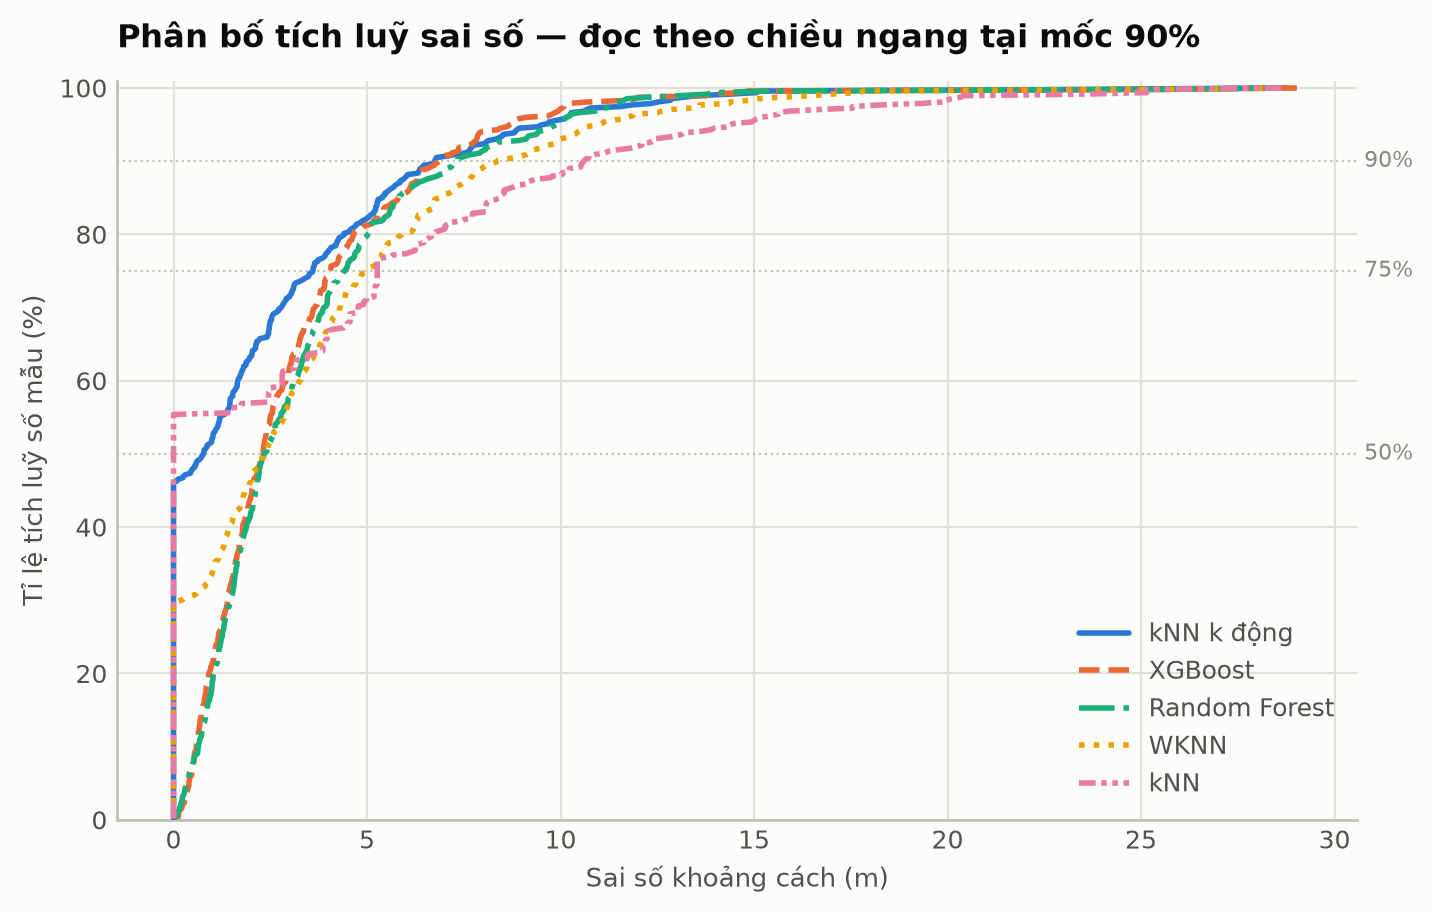
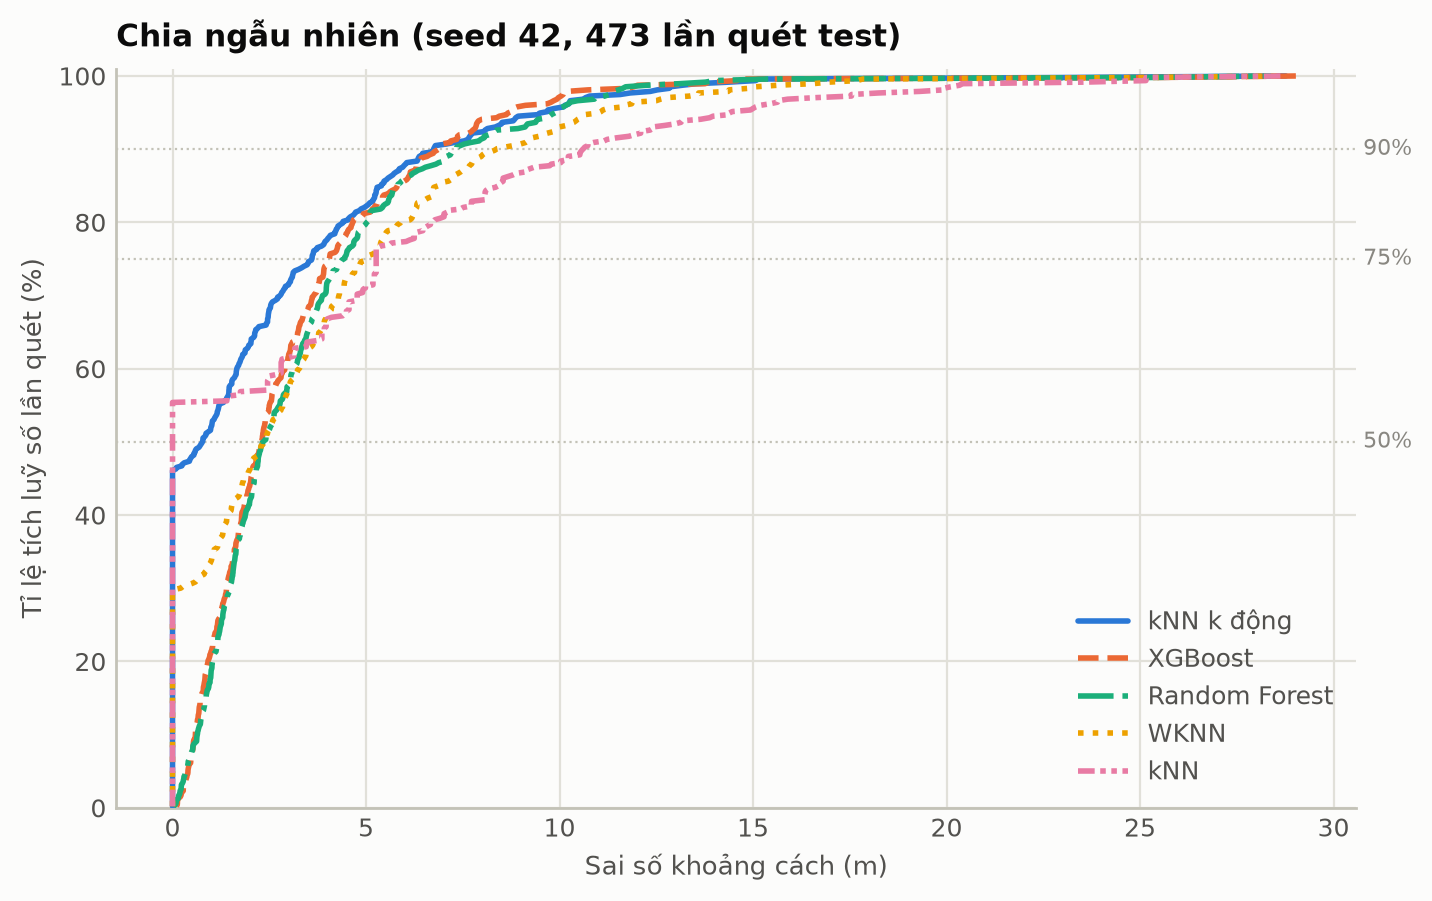
feat(ml): thêm RMSE, tỉ lệ sai không quá 2/3/5 m cho ba giao thức và hình CDF bỏ trọn một điểm, khác đợt

diff --git a/ml/report.py b/ml/report.py
@@ -122,27 +122,28 @@ def so_sanh_mo_hinh(loi: dict, thu_tu: list[str]) -> str:
     return _luu(fig, "model_comparison.png")
 
 
-def cdf(loi: dict, thu_tu: list[str]) -> str:
-    """Đường CDF. Kiểu nét khác nhau để đọc được cả khi in đen trắng."""
-    fig, ax = plt.subplots(figsize=(8, 4.8))
-    _khung(ax)
-
-    for i, ten in enumerate(thu_tu):
-        x, y = evaluate.duong_cdf(loi[ten])
-        ax.plot(x, y, color=SERIES[i], linestyle=NET[i], linewidth=2,
-                label=ten, zorder=3, solid_capstyle="round")
-
-    for p in (50, 75, 90):
-        ax.axhline(p, color=TRUC, linewidth=0.8, linestyle=":", zorder=1)
-        ax.text(ax.get_xlim()[1], p, f" {p}%", va="center", fontsize=8, color=MUC_MO)
-
-    ax.set_xlabel("Sai số khoảng cách (m)", color=MUC_PHU, fontsize=9.5)
-    ax.set_ylabel("Tỉ lệ tích luỹ số mẫu (%)", color=MUC_PHU, fontsize=9.5)
-    ax.set_ylim(0, 101)
-    ax.set_title("Phân bố tích luỹ sai số — đọc theo chiều ngang tại mốc 90%",
-                 color=MUC_CHINH, fontsize=11.5, fontweight="bold", loc="left", pad=12)
-    ax.legend(frameon=False, fontsize=9, loc="lower right", labelcolor=MUC_PHU)
-    return _luu(fig, "cdf_error.png")
+def cdf(cac_khung: dict[str, dict], ten_file: str) -> str:
+    """Đường CDF theo mét, mỗi khung một tập kiểm. Kiểu nét khác nhau để đọc được khi in
+    đen trắng; thứ tự và màu lấy theo khung đầu nên cùng mô hình cùng màu ở mọi khung."""
+    dau = next(iter(cac_khung.values()))
+    thu_tu = sorted(dau, key=lambda t: dau[t].mean())
+    fig, cac_ax = plt.subplots(1, len(cac_khung), figsize=(8 * len(cac_khung) ** 0.6, 4.8),
+                               squeeze=False, sharey=True)
+    for ax, (tieu_de, loi) in zip(cac_ax[0], cac_khung.items()):
+        _khung(ax)
+        for i, ten in enumerate(thu_tu):
+            x, y = evaluate.duong_cdf(loi[ten])
+            ax.plot(x, y, color=SERIES[i], linestyle=NET[i], linewidth=2,
+                    label=ten, zorder=3, solid_capstyle="round")
+        for p in (50, 75, 90):
+            ax.axhline(p, color=TRUC, linewidth=0.8, linestyle=":", zorder=1)
+            ax.text(ax.get_xlim()[1], p, f" {p}%", va="center", fontsize=8, color=MUC_MO)
+        ax.set_xlabel("Sai số khoảng cách (m)", color=MUC_PHU, fontsize=9.5)
+        ax.set_ylim(0, 101)
+        ax.set_title(tieu_de, color=MUC_CHINH, fontsize=11, fontweight="bold", loc="left", pad=8)
+    cac_ax[0][0].set_ylabel("Tỉ lệ tích luỹ số lần quét (%)", color=MUC_PHU, fontsize=9.5)
+    cac_ax[0][-1].legend(frameon=False, fontsize=9, loc="lower right", labelcolor=MUC_PHU)
+    return _luu(fig, ten_file)
 
 
 def hieu_qua_gop(meta: dict, te: pd.DataFrame, ap: list[str], du_doan: dict) -> str:
@@ -357,7 +358,7 @@ def chay(cho_phep_luoi_rut_gon: bool = False) -> None:
     # không lấy mô hình tốt nhất trên test.
     ket_qua = [
         so_sanh_mo_hinh(loi, thu_tu),
-        cdf(loi, thu_tu),
+        cdf({"Chia ngẫu nhiên (seed 42, 473 lần quét test)": loi}, "cdf_error.png"),
         hieu_qua_gop(meta, te, ap, du_doan),
         ban_do_loi(meta, te, du_doan),
         do_quan_trong(ap),

diff --git a/ml/khac_dot.py b/ml/khac_dot.py
@@ -19,7 +19,7 @@ import numpy as np
 import pandas as pd
 from sklearn.preprocessing import MinMaxScaler
 
-from ml import config, evaluate
+from ml import config, evaluate, report
 from ml import models as goi_mo_hinh
 from ml import preprocess as pre
 from ml.danh_gia_cheo import _luoi_da_dung, _tham_so, nap_bang_rong
@@ -61,16 +61,20 @@ def run(ten_mo_hinh: list[str] | None = None) -> pd.DataFrame:
         muon = {t.lower() for t in ten_mo_hinh}
         chon = [m for m in chon if m.__name__.rsplit(".", 1)[-1].lower() in muon]
 
-    dong = []
+    dong, loi_met = [], {k: {} for k in chieu}
     for mo_dun in chon:
         khoa = mo_dun.__name__.rsplit(".", 1)[-1]
         tham_so = _tham_so(khoa, mo_dun)
         hang = {"mo_hinh": mo_dun.TEN}
         cac_loi = []
         for ten_chieu, (Xh, Yh, Xt, Yt) in chieu.items():
-            loi = evaluate.khoang_cach_loi(Yt, mo_dun.build(**tham_so).fit(Xh, Yh).predict(Xt))
-            hang[f"loi_trung_binh_{ten_chieu}"] = float(loi.mean())
-            hang[f"loi_trung_vi_{ten_chieu}"] = float(np.median(loi))
+            p = mo_dun.build(**tham_so).fit(Xh, Yh).predict(Xt)
+            loi = evaluate.khoang_cach_loi(Yt, p)
+            loi_met[ten_chieu][mo_dun.TEN] = loi * config.MET_MOI_DON_VI
+            dg = evaluate.danh_gia(Yt, p)
+            for c in ("loi_trung_binh", "loi_trung_vi", "cdf_75", "cdf_90", "rmse",
+                      *(f"ti_le_duoi_{t}m" for t in evaluate.NGUONG_MET)):
+                hang[f"{c}_{ten_chieu}"] = dg[c]
             cac_loi.append(loi.mean())
         # Trung bình hai chiều, mỗi chiều nặng như nhau dù số lần quét kiểm khác nhau.
         hang["loi_trung_binh"] = float(np.mean(cac_loi))
@@ -82,6 +86,9 @@ def run(ten_mo_hinh: list[str] | None = None) -> pd.DataFrame:
     bang = pd.DataFrame(dong).sort_values("loi_trung_binh").reset_index(drop=True)
     (config.REPORTS_DIR / "tables").mkdir(parents=True, exist_ok=True)
     config.ghi_csv(bang, config.REPORTS_DIR / "tables" / "model_comparison_khac_dot.csv", index=False)
+    if not ten_mo_hinh:
+        print(report.cdf({f"Khác đợt: học {k[0]}, kiểm {k[-1]} ({len(chieu[k][2])} lần quét)": v
+                          for k, v in loi_met.items()}, "cdf_khac_dot.png"))
     return bang
 
 

diff --git a/ml/danh_gia_cheo.py b/ml/danh_gia_cheo.py
@@ -25,7 +25,7 @@ import numpy as np
 import pandas as pd
 from sklearn.preprocessing import MinMaxScaler
 
-from ml import config, evaluate
+from ml import config, evaluate, report
 from ml import preprocess as pre
 from ml import models as goi_mo_hinh
 
@@ -125,10 +125,11 @@ def run(ten_mo_hinh: list[str] | None = None,
         chon = [m for m in chon if m.__name__.rsplit(".", 1)[-1].lower() in muon
                 or m.TEN.lower() in muon]
 
-    ket_qua = []
+    ket_qua, loi_met = [], {}
     for mo_dun in chon:
         khoa = mo_dun.__name__.rsplit(".", 1)[-1]
         loi = chay_mot_mo_hinh(mo_dun, cac_gap, _tham_so(khoa, mo_dun))
+        loi_met[mo_dun.TEN] = loi * config.MET_MOI_DON_VI
         # danh_gia() nhận toạ độ chứ không nhận sai số, nên dựng lại một cặp (thật,
         # dự đoán) lệch nhau đúng bằng sai số đã đo — mọi chỉ số khoảng cách và CDF
         # ra y hệt.
@@ -139,6 +140,8 @@ def run(ten_mo_hinh: list[str] | None = None,
     bang = evaluate.bang_so_sanh(ket_qua)
     bang = bang.drop(columns=[c for c in ("mae_x", "mae_y", "rmse_x", "rmse_y")
                               if c in bang.columns])
+    if not ten_mo_hinh:
+        print(report.cdf({f"Bỏ trọn một điểm ({len(fp)} lần quét)": loi_met}, "cdf_bo_diem.png"))
 
     (config.REPORTS_DIR / "tables").mkdir(parents=True, exist_ok=True)
     config.ghi_csv(bang,

diff --git a/ml/evaluate.py b/ml/evaluate.py
@@ -15,8 +15,11 @@ import time
 import numpy as np
 import pandas as pd
 
+from ml import config
+
 # Các mốc phần trăm dùng cho đường CDF trong báo cáo
 CDF_PERCENTILES = (50, 75, 90)
+NGUONG_MET = (2, 3, 5)
 
 
 def khoang_cach_loi(y_that: np.ndarray, y_du_doan: np.ndarray) -> np.ndarray:
@@ -75,7 +78,11 @@ def danh_gia(
         "mae_y": float(np.abs(lech[:, 1]).mean()),
         "rmse_x": float(np.sqrt((lech[:, 0] ** 2).mean())),
         "rmse_y": float(np.sqrt((lech[:, 1] ** 2).mean())),
+        "rmse": float(np.sqrt((loi ** 2).mean())),
     }
+    # Toạ độ theo đơn vị lưới nhưng ngưỡng đặt theo mét; tỉ lệ tính bằng %.
+    for t in NGUONG_MET:
+        ket_qua[f"ti_le_duoi_{t}m"] = float((loi * config.MET_MOI_DON_VI <= t).mean() * 100)
 
     # CDF: p% số mẫu có sai số dưới ngưỡng này
     for p in CDF_PERCENTILES:
